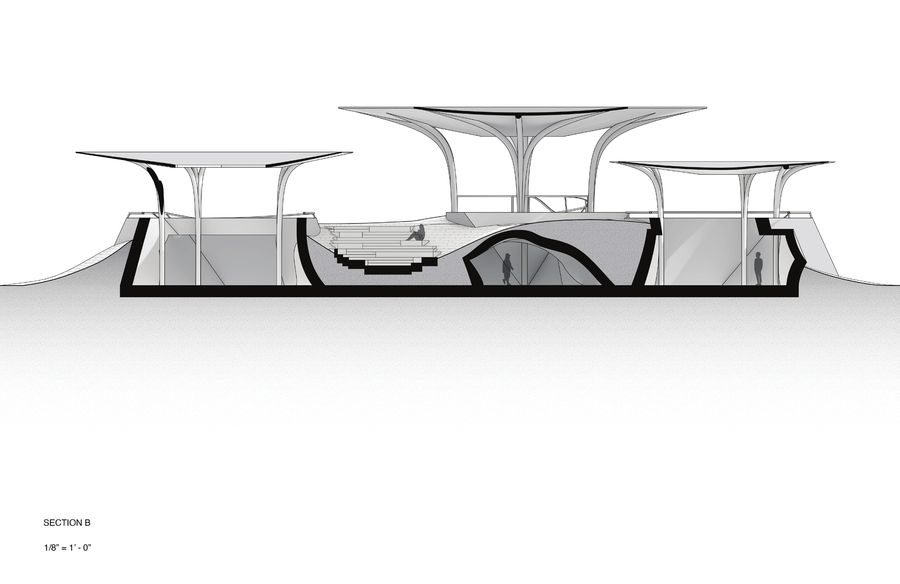
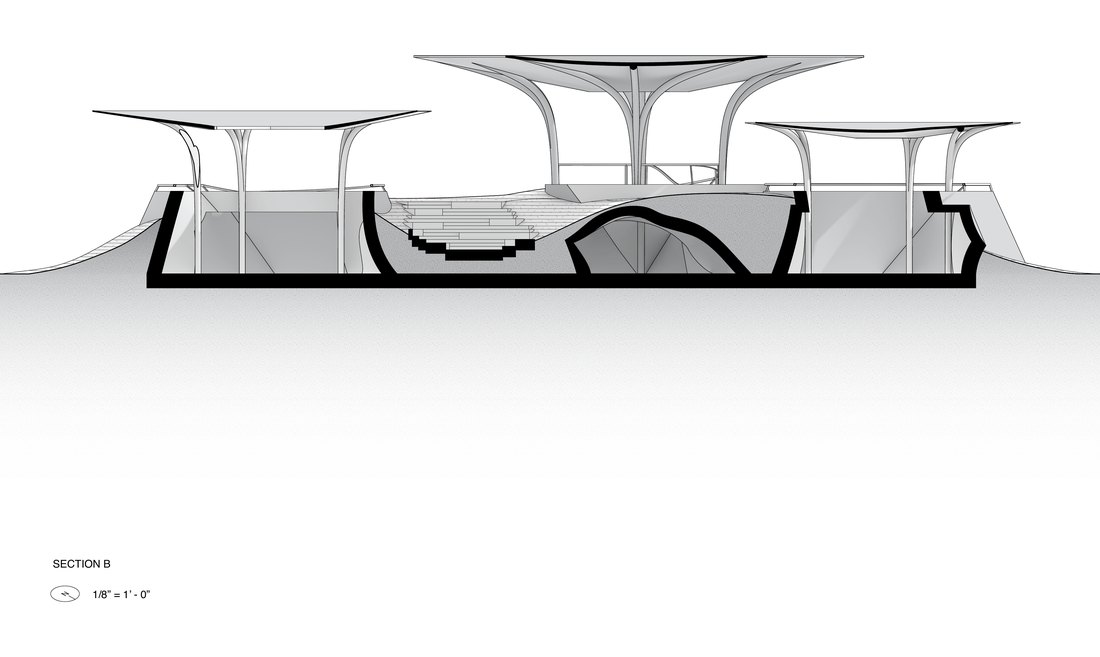
Replace Menil Extension drawings and align the diagram row
Claude-Session: https://claude.ai/code/session_014P4HtxNjHqz1LRypPXgB5u

Changed region(s): [[0.0, 0.0616, 1.0, 0.524], [0.0311, 0.8322, 0.1244, 0.9555]]

diff --git a/index.html b/index.html
@@ -187,6 +187,13 @@ footer .wrap { display: flex; flex-wrap: wrap; justify-content: space-between; g
 .b-eq { grid-column: 1 / -1; display: flex; gap: clamp(12px, 2vw, 28px); align-items: flex-start; }
 .eq-item { min-width: 0; }
 .eq-item.stack { display: flex; flex-direction: column; gap: clamp(12px, 2vw, 28px); }
+/* Fill rows: the single image stretches to the exact height of the stacked column beside it,
+   trimming a little of its own white margin so the two sides end on the same line. */
+.b-eq.fill { align-items: stretch; }
+.b-eq.fill > .eq-item:not(.stack) { display: flex; }
+.b-eq.fill > .eq-item:not(.stack) > .fig { flex: 1; display: flex; flex-direction: column; gap: 10px; }
+.b-eq.fill > .eq-item:not(.stack) > .fig > button { flex: 1; position: relative; min-height: 0; background: #fff; }
+.b-eq.fill > .eq-item:not(.stack) > .fig > button img { position: absolute; inset: 0; width: 100%; height: 100%; object-fit: cover; }
 .b-split { grid-column: 1 / -1; display: grid; grid-template-columns: repeat(12, minmax(0, 1fr)); column-gap: clamp(12px, 2vw, 28px); row-gap: 28px; align-items: center; }
 .b-split .fig { grid-column: 1 / span 6; }
 .b-split .b-text { grid-column: 8 / span 5; }
@@ -226,6 +233,8 @@ footer .wrap { display: flex; flex-wrap: wrap; justify-content: space-between; g
 @media (max-width: 520px) {
   .b-eq { flex-direction: column; }
   .b-eq .eq-item { flex: none !important; width: 100%; }
+  .b-eq.fill > .eq-item:not(.stack) > .fig > button { position: static; }
+  .b-eq.fill > .eq-item:not(.stack) > .fig > button img { position: static; height: auto; }
   .b-pair, .b-trio { grid-template-columns: minmax(0, 1fr); }
   .b-trio .fig:last-child:nth-child(odd) { grid-column: auto; }
   .cv-row { grid-template-columns: minmax(0, 1fr); gap: 2px; }
@@ -343,12 +352,12 @@ const PROJECTS = [
     blocks: [
       { full: ["menil-hero", "Rendering"] },
       { text: ["The core concept is anchored by a grid mapped directly from the circulation paths of the existing campus buildings. By overlapping these established pedestrian flows, the extension integrates into the site and keeps movement easy and accessible for visitors."] },
-      { row: [["menil-hilltop-plan", "Hilltop plan, 1/8\" = 1'-0\""], ["menil-plan", "Plan, 1/8\" = 1'-0\""]] },
+      { row: [["menil-hilltop-plan", "Hill plan, 1/8\" = 1'-0\""], ["menil-plan", "Cut plan at 4'-0\", 1/8\" = 1'-0\""]] },
       { text: ["The shape language responds to the concentric squares on the roofs of the adjacent Drawing Institute and Cy Twombly Gallery. Circular forms modify that motif, producing a curvilinear shape that softens the rigidity of the site."] },
       { medium: ["menil-site-plan", "Site plan, 1/16\" = 1'-0\""] },
       { row: [["menil-section-a", "Section A, 1/8\" = 1'-0\""], ["menil-section-b", "Section B, 1/8\" = 1'-0\""]] },
       { text: ["The curvilinear motif flows down into the structural grid, creating a biomorphic interior. Above, the landscape sweeps over the structural bones of the building, maximizing green space and letting the rooflines and the rolling terrain mirror one another."] },
-      { row: [["menil-transformations", "Transformations diagram"], [["menil-axon", "Axonometric diagram"], ["menil-circulation", "Circulation diagram"]]] },
+      { fill: true, row: [["menil-transformations", "Transformations diagram"], [["menil-axon", "Axonometric diagram"], ["menil-circulation", "Circulation diagram"]]] },
       { text: ["The pavilion takes a freeform approach to its program: three indoor rooms and one outdoor gathering area, an arrangement that can adapt to whatever the campus needs.",
                "These connected areas offer varying exposure to nature, accommodating both large public gatherings and intimate, private moments."] },
       { quad: [["menil-model-1", "Model detail"], ["menil-model-2", "Model, aerial view"], ["menil-model-3", "Model"], ["menil-model-4", "Model, plan view"]] }
@@ -365,7 +374,7 @@ const OTHER = [
 
 /* ---------- Rendering ---------- */
 /* Width / height of each image, used to give photos in the same row the same height. */
-const DIMS = {"cover-totem-bw": 0.713, "ext-composite-map": 1.016, "ext-hero": 1.001, "ext-line-1": 1.0, "ext-line-10": 1.0, "ext-line-1000": 1.0, "ext-materials": 1.009, "ext-night": 1.007, "ext-radial": 1.001, "ga-drawing-series": 1.0, "ga-final-1": 1.0, "ga-final-2": 1.0, "ga-hero": 1.5, "ga-model-series": 1.0, "ga-section-1": 1.0, "ga-section-2": 1.0, "int-axon": 0.6, "int-hero": 0.716, "int-light-plan": 0.433, "int-model-1": 1.508, "int-model-2": 1.022, "int-sections": 0.517, "menil-axon": 1.508, "menil-circulation": 0.8, "menil-hero": 1.011, "menil-hilltop-plan": 0.982, "menil-model-1": 1.007, "menil-model-2": 1.023, "menil-model-3": 1.015, "menil-model-4": 1.018, "menil-plan": 1.087, "menil-section-a": 1.461, "menil-section-b": 1.541, "menil-site-plan": 1.0, "menil-transformations": 0.48, "mfah-aerial": 1.0, "mfah-axon": 1.0, "mfah-cantilever": 1.0, "mfah-hero": 1.5, "mfah-plan-12": 0.816, "mfah-section": 1.518, "mfah-site-plan": 0.793, "totem-color": 0.71, "totem-detail": 0.71, "totem-hero": 0.714, "totem-plan-section": 0.621, "totem-unit": 0.621};
+const DIMS = {"cover-totem-bw": 0.713, "ext-composite-map": 1.016, "ext-hero": 1.001, "ext-line-1": 1.0, "ext-line-10": 1.0, "ext-line-1000": 1.0, "ext-materials": 1.009, "ext-night": 1.007, "ext-radial": 1.001, "ga-drawing-series": 1.0, "ga-final-1": 1.0, "ga-final-2": 1.0, "ga-hero": 1.5, "ga-model-series": 1.0, "ga-section-1": 1.0, "ga-section-2": 1.0, "int-axon": 0.6, "int-hero": 0.716, "int-light-plan": 0.433, "int-model-1": 1.508, "int-model-2": 1.022, "int-sections": 0.517, "menil-axon": 1.197, "menil-circulation": 0.916, "menil-hero": 1.011, "menil-hilltop-plan": 1.061, "menil-model-1": 1.007, "menil-model-2": 1.023, "menil-model-3": 1.015, "menil-model-4": 1.018, "menil-plan": 0.994, "menil-section-a": 1.78, "menil-section-b": 1.674, "menil-site-plan": 1.049, "menil-transformations": 0.8, "mfah-aerial": 1.0, "mfah-axon": 1.0, "mfah-cantilever": 1.0, "mfah-hero": 1.5, "mfah-plan-12": 0.816, "mfah-section": 1.518, "mfah-site-plan": 0.793, "totem-color": 0.71, "totem-detail": 0.71, "totem-hero": 0.714, "totem-plan-section": 0.621, "totem-unit": 0.621};
 const app = document.getElementById("app");
 const esc = s => String(s).replace(/[&<>"]/g, c => ({ "&": "&amp;", "<": "&lt;", ">": "&gt;", '"': "&quot;" }[c]));
 const pad = n => String(n).padStart(2, "0");
@@ -502,7 +511,7 @@ function projectView(p) {
       const isStack = it => Array.isArray(it[0]);
       const ratio = it => isStack(it) ? 1 / it.reduce((t, f) => t + 1 / (DIMS[f[0]] || 1), 0) : (DIMS[it[0]] || 1);
       const total = b.row.reduce((t, it) => t + ratio(it), 0);
-      return `<div class="b-eq">${b.row.map(it => {
+      return `<div class="b-eq${b.fill ? " fill" : ""}">${b.row.map(it => {
         const r = ratio(it), sizes = `(max-width: 520px) 100vw, ${Math.ceil(100 * r / total)}vw`;
         const inner = isStack(it) ? it.map(f => fig(f, sizes)).join("") : fig(it, sizes);
         return `<div class="eq-item${isStack(it) ? " stack" : ""}" style="flex: ${r} 1 0">${inner}</div>`;
